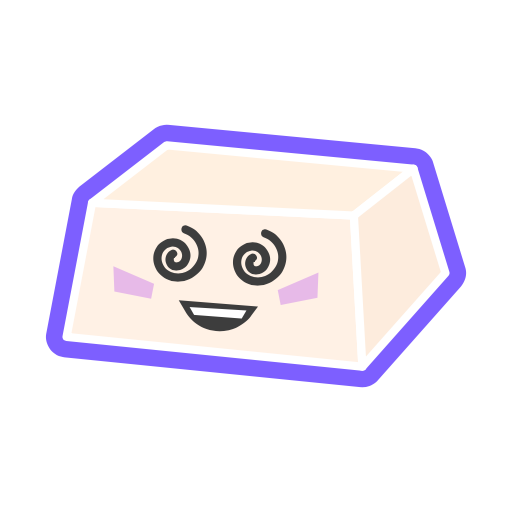
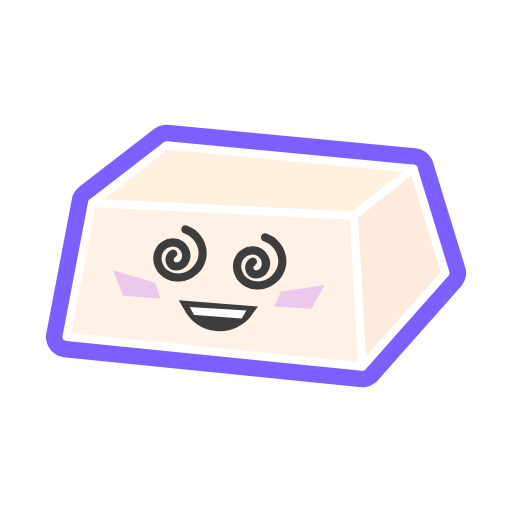
Update images.

Changed region(s): [[0.4375, 0.4375, 0.625, 0.625], [0.2188, 0.5, 0.25, 0.5938], [0.2812, 0.5625, 0.3125, 0.5938]]

diff --git a/index.html b/index.html
@@ -55,7 +55,7 @@
 	</head>
 	<body>
 		<div id="logo">
-			<svg width="512" height="512" version="1.1" viewBox="0 0 512 512" xmlns="http://www.w3.org/2000/svg"><g transform="matrix(3.109 0 0 3.109 40.165 52.094)"><path d="m40.667 29.985-23.961 18.485-8.215 43.13 95.161 9.5849 26.7-30.123-10.269-33.546z" fill="#fff" stroke="#7d5fff" stroke-linecap="round" stroke-linejoin="round" stroke-width="13.229"/><g stroke="#fff" stroke-linecap="round" stroke-linejoin="round" stroke-width="2.6458"><path d="m16.705 48.469 84.207 4.1077 2.7384 48.607-95.161-9.5845z" fill="#fff1e5"/><path d="m16.705 48.469 23.961-18.484 79.415 7.5307-19.169 15.061z" fill="#fff0e0"/><path d="m120.08 37.516 10.269 33.546-26.7 30.123-2.7384-48.607z" fill="#fdecdd"/></g><path d="m44.574 79.821 25.491 2.0224-2.1258 2.8514c-5.4503 7.2827-16.574 6.6591-21.192-1.1729z" fill="#3d3d3d" stroke-width=".21394"/><polygon transform="matrix(.21069 -.03715 .03715 .21069 -32.395 -56.569)" points="257.9 703.2 262.5 716 332 733.8 341.2 723.1" fill="#fff"/><path d="m72.687 57.036c-1.6416-0.53385-2.3356 2.042-0.70734 2.5758 2.8961 0.94758 4.9915 4.124 4.5243 7.1802-0.46712 3.0963-3.2965 5.6988-6.4595 5.6855-1.6149 0-3.2698-0.64061-4.3108-1.9085-0.96092-1.1745-1.3079-2.8427-0.84081-4.2841 0.42708-1.3213 1.7617-2.3222 3.1363-2.4557 1.3613-0.13345 2.6025 0.70735 3.083 1.9752 0.48046 1.2545-0.09348 3.0563-1.6282 3.1097-0.32028 0.01413-0.46711-0.06679-0.57388-0.16012-0.16016-0.13345-0.20019-0.22688-0.28024-0.54718-0.01316-0.03995-0.01316-0.06679-0.02665-0.06679v-0.33373c0.01316-0.06671 0.02665-0.12009 0.03995-0.18688 0 0 0.01316-0.03995 0.02665-0.06671 0 0.03995 0.14681-0.14681 0.01316-0.03995l0.03995-0.03995c0.03995-0.02663 0.16012-0.0934 0.01316-0.03995 0.66731-0.26695 1.1344-0.8942 0.93423-1.6416-0.17347-0.64061-0.96092-1.2012-1.6416-0.93423-2.122 0.82746-2.7093 3.4833-1.4013 5.2984 1.5615 2.1621 4.7112 1.6016 6.246-0.2936 1.6549-2.0286 1.2946-4.8313-0.32028-6.7665-1.6015-1.9218-4.2708-2.429-6.5396-1.4814-2.3489 0.97427-3.8837 3.1764-3.9905 5.7255-0.10673 2.6025 1.2812 5.0849 3.4433 6.4729 4.3642 2.816 10.183 0.80074 12.612-3.5635 2.7893-5.0048 0.01316-11.438-5.3918-13.213z" fill="#3d3d3d" stroke-width=".13346"/><path d="m47.058 55.764c-1.6416-0.53384-2.3356 2.042-0.70734 2.5758 2.8961 0.94758 4.9915 4.124 4.5243 7.1802-0.46712 3.0963-3.2965 5.6988-6.4595 5.6855-1.6149 0-3.2698-0.64061-4.3108-1.9085-0.96092-1.1745-1.3079-2.8427-0.84081-4.2841 0.42708-1.3213 1.7617-2.3222 3.1363-2.4557 1.3613-0.13345 2.6025 0.70735 3.083 1.9752 0.48046 1.2545-0.09348 3.0563-1.6282 3.1096-0.32028 0.01413-0.46711-0.06678-0.57389-0.16012-0.16016-0.13345-0.20019-0.22688-0.28024-0.54719-0.01316-0.03995-0.01316-0.06678-0.02663-0.06678v-0.33373c0.01316-0.06671 0.02663-0.12009 0.03995-0.18688 0 0 0.01316-0.03995 0.02663-0.06671 0 0.03995 0.14681-0.14681 0.01316-0.03995 0.01316-0.01316 0.02663-0.02665 0.03995-0.03995 0.03995-0.02663 0.16012-0.0934 0.01316-0.03995 0.66731-0.26695 1.1344-0.89419 0.93424-1.6416-0.17347-0.64061-0.96092-1.2012-1.6416-0.93423-2.122 0.82746-2.7093 3.4833-1.4013 5.2984 1.5615 2.1621 4.7112 1.6016 6.246-0.2936 1.6549-2.0286 1.2946-4.8313-0.32028-6.7665-1.6015-1.9218-4.2708-2.429-6.5396-1.4814-2.3489 0.97427-3.8837 3.1764-3.9905 5.7255-0.10674 2.6025 1.2812 5.0849 3.4433 6.4729 4.3642 2.816 10.183 0.80074 12.612-3.5635 2.7893-5.0048 0.01316-11.438-5.3918-13.213z" fill="#3d3d3d" stroke-width=".13346"/><path d="m76.415 76.551 13.091-5.6495-0.31915 8.1243-11.825 2.3292z" fill="#e5b5e8" opacity=".91" style="paint-order:markers fill stroke"/><path d="m36.636 74.529-13.091-5.6495 0.31915 8.1243 11.825 2.3292z" fill="#e5b5e8" opacity=".91" style="paint-order:markers fill stroke"/></g></svg>
+			<svg width="512" height="512" version="1.1" viewBox="0 0 512 512" xmlns="http://www.w3.org/2000/svg"><g transform="matrix(3.109 0 0 3.109 40.165 52.094)"><path d="m40.667 29.985-23.961 18.485-8.215 43.13 95.161 9.5849 26.7-30.123-10.269-33.546z" fill="#fff" stroke="#7d5fff" stroke-linecap="round" stroke-linejoin="round" stroke-width="13.229"/><g stroke="#fff" stroke-linecap="round" stroke-linejoin="round" stroke-width="2.6458"><path d="m16.705 48.469 84.207 4.1077 2.7384 48.607-95.161-9.5845z" fill="#fff1e5"/><path d="m16.705 48.469 23.961-18.484 79.415 7.5307-19.169 15.061z" fill="#fff0e0"/><path d="m120.08 37.516 10.269 33.546-26.7 30.123-2.7384-48.607z" fill="#fdecdd"/></g><path d="m44.574 79.821 25.491 2.0224-2.1258 2.8514c-5.4503 7.2827-16.574 6.6591-21.192-1.1729z" fill="#3d3d3d" stroke-width=".21394"/><polygon transform="matrix(.21069 -.03715 .03715 .21069 -32.395 -56.569)" points="332 733.8 341.2 723.1 257.9 703.2 262.5 716" fill="#fff"/><path d="m72.687 58.323c-1.6416-0.53385-2.3356 2.042-0.70734 2.5758 2.8961 0.94758 4.9915 4.124 4.5243 7.1802-0.46712 3.0963-3.2965 5.6988-6.4595 5.6855-1.6149 0-3.2698-0.64061-4.3108-1.9085-0.96092-1.1745-1.3079-2.8427-0.84081-4.2841 0.42708-1.3213 1.7617-2.3222 3.1363-2.4557 1.3613-0.13345 2.6025 0.70735 3.083 1.9752 0.48046 1.2545-0.09348 3.0563-1.6282 3.1097-0.32028 0.01413-0.46711-0.06679-0.57388-0.16012-0.16016-0.13345-0.20019-0.22688-0.28024-0.54718-0.01316-0.03995-0.01316-0.06679-0.02665-0.06679v-0.33373c0.01316-0.06671 0.02665-0.12009 0.03995-0.18688 0 0 0.01316-0.03995 0.02665-0.06671 0 0.03995 0.14681-0.14681 0.01316-0.03995l0.03995-0.03995c0.03995-0.02663 0.16012-0.0934 0.01316-0.03995 0.66731-0.26695 1.1344-0.8942 0.93423-1.6416-0.17347-0.64061-0.96092-1.2012-1.6416-0.93423-2.122 0.82746-2.7093 3.4833-1.4013 5.2984 1.5615 2.1621 4.7112 1.6016 6.246-0.2936 1.6549-2.0286 1.2946-4.8313-0.32028-6.7665-1.6015-1.9218-4.2708-2.429-6.5396-1.4814-2.3489 0.97427-3.8837 3.1764-3.9905 5.7255-0.10673 2.6025 1.2812 5.0849 3.4433 6.4729 4.3642 2.816 10.183 0.80074 12.612-3.5635 2.7893-5.0048 0.01316-11.438-5.3918-13.213z" fill="#3d3d3d" stroke-width=".13346"/><path d="m47.058 55.764c-1.6416-0.53384-2.3356 2.042-0.70734 2.5758 2.8961 0.94758 4.9915 4.124 4.5243 7.1802-0.46712 3.0963-3.2965 5.6988-6.4595 5.6855-1.6149 0-3.2698-0.64061-4.3108-1.9085-0.96092-1.1745-1.3079-2.8427-0.84081-4.2841 0.42708-1.3213 1.7617-2.3222 3.1363-2.4557 1.3613-0.13345 2.6025 0.70735 3.083 1.9752 0.48046 1.2545-0.09348 3.0563-1.6282 3.1096-0.32028 0.01413-0.46711-0.06678-0.57389-0.16012-0.16016-0.13345-0.20019-0.22688-0.28024-0.54719-0.01316-0.03995-0.01316-0.06678-0.02663-0.06678v-0.33373c0.01316-0.06671 0.02663-0.12009 0.03995-0.18688 0 0 0.01316-0.03995 0.02663-0.06671 0 0.03995 0.14681-0.14681 0.01316-0.03995 0.01316-0.01316 0.02663-0.02665 0.03995-0.03995 0.03995-0.02663 0.16012-0.0934 0.01316-0.03995 0.66731-0.26695 1.1344-0.89419 0.93424-1.6416-0.17347-0.64061-0.96092-1.2012-1.6416-0.93423-2.122 0.82746-2.7093 3.4833-1.4013 5.2984 1.5615 2.1621 4.7112 1.6016 6.246-0.2936 1.6549-2.0286 1.2946-4.8313-0.32028-6.7665-1.6015-1.9218-4.2708-2.429-6.5396-1.4814-2.3489 0.97427-3.8837 3.1764-3.9905 5.7255-0.10674 2.6025 1.2812 5.0849 3.4433 6.4729 4.3642 2.816 10.183 0.80074 12.612-3.5635 2.7893-5.0048 0.01316-11.438-5.3918-13.213z" fill="#3d3d3d" stroke-width=".13346"/><path d="m77.439 77.049 14.095-2.151-4.2933 7.6857-12.029-0.74059z" fill="#eac5ed" opacity=".91" style="paint-order:markers fill stroke"/><path d="m37.093 74.199-13.675-4.0353 3.2157 8.1953 12.019 0.89125z" fill="#eac5ed" opacity=".91" style="paint-order:markers fill stroke"/></g></svg>
 		</div>
 		<p><a href="mailto:hello@tofukid.xyz">hello@tofukid.xyz</a></p>
 	</body>
